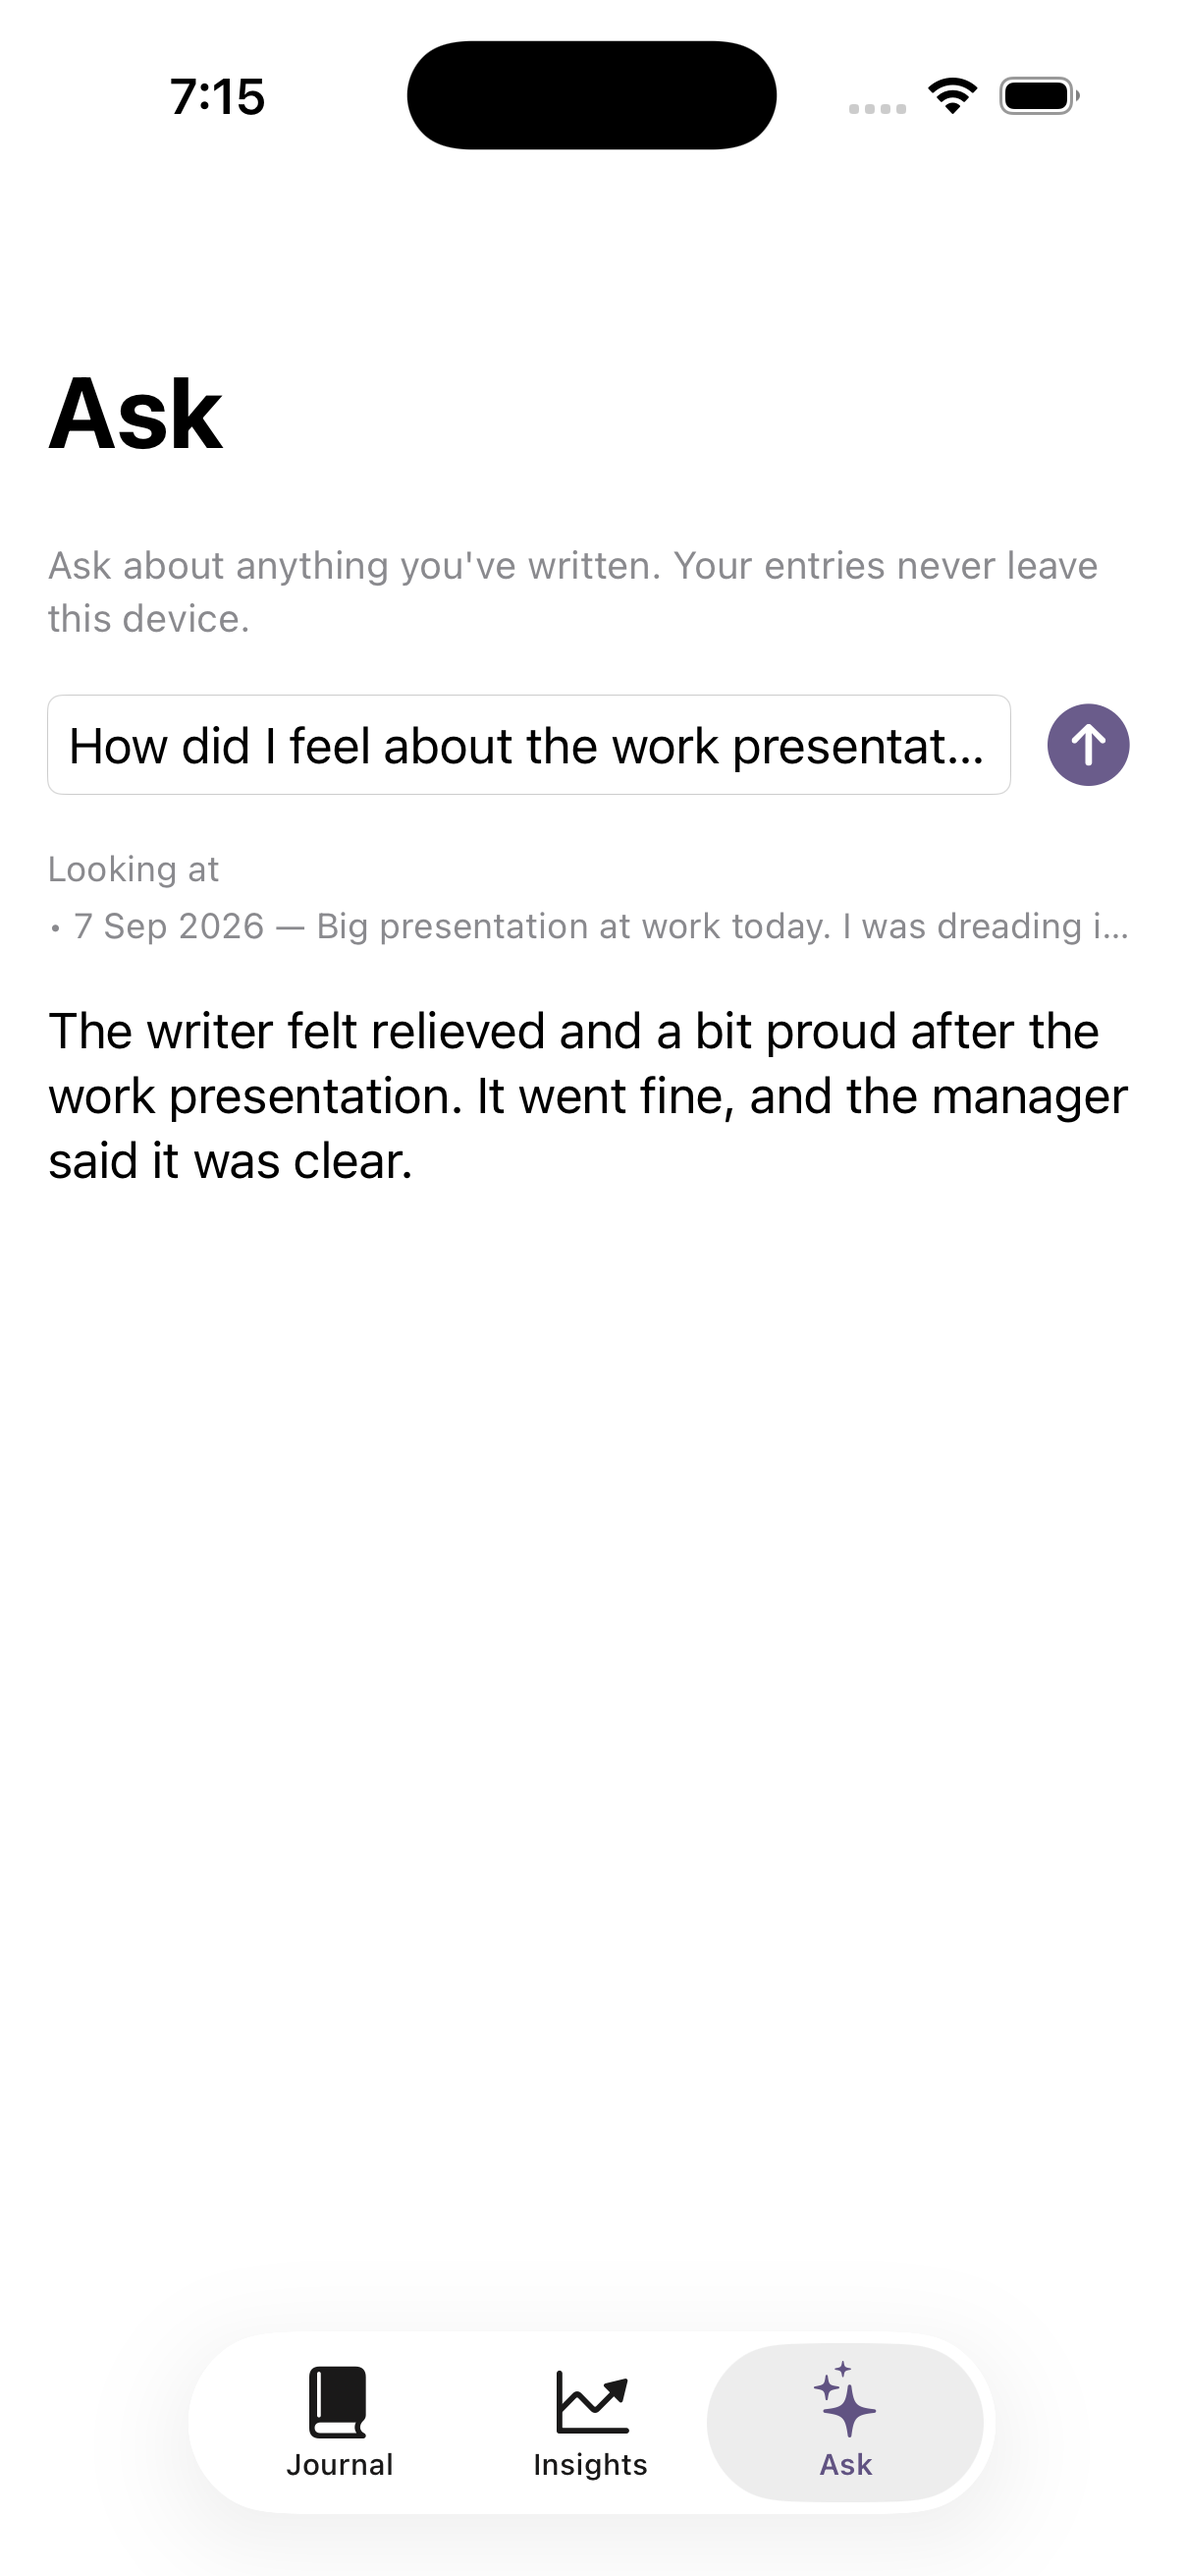
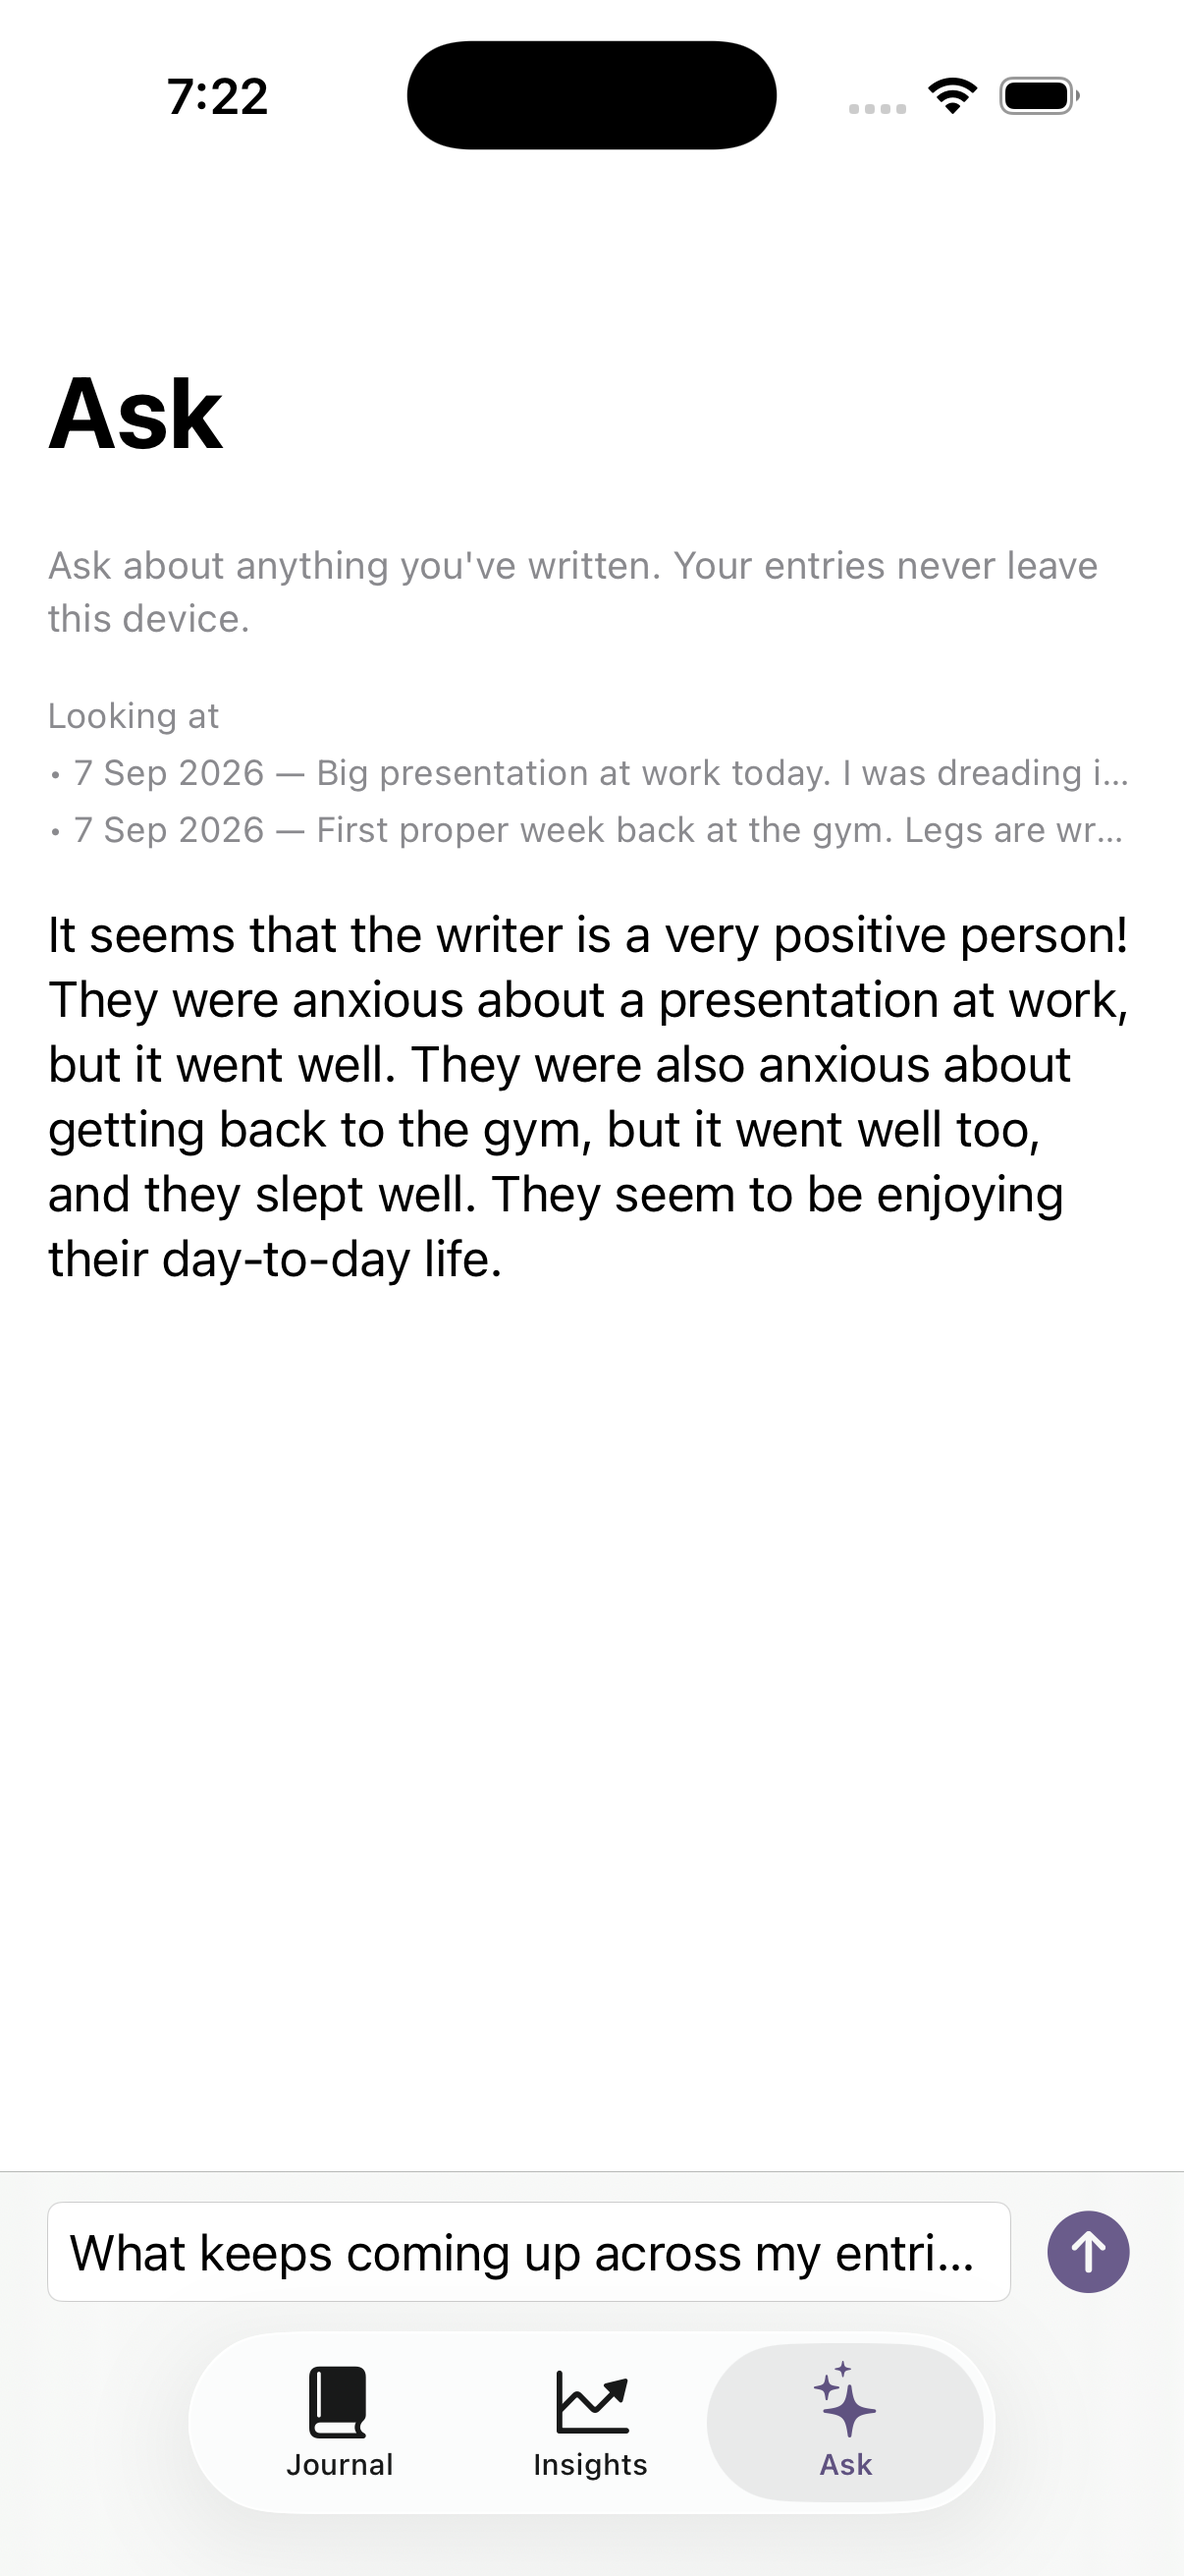
Ask: restore the bottom input bar
The input belongs at the bottom for a chat-style screen. It was moved to
the top only to dodge a focus bug in the .safeAreaInset version. Using
VStack { ScrollView; inputBar } instead keeps it pinned to the bottom,
rides above the keyboard, and takes focus correctly. Verified live on
iPhone 17 Pro: field focuses, question sends, retrieval + streamed answer
render.

diff --git a/Reflect/Features/Ask/AskView.swift b/Reflect/Features/Ask/AskView.swift
@@ -14,61 +14,73 @@ struct AskView: View {
 
     var body: some View {
         NavigationStack {
-            ScrollView {
-                VStack(alignment: .leading, spacing: 18) {
-                    Text("Ask about anything you've written. Your entries never leave this device.")
-                        .font(.footnote)
-                        .foregroundStyle(.secondary)
+            VStack(spacing: 0) {
+                ScrollView {
+                    VStack(alignment: .leading, spacing: 18) {
+                        Text("Ask about anything you've written. Your entries never leave this device.")
+                            .font(.footnote)
+                            .foregroundStyle(.secondary)
 
-                    HStack(spacing: 10) {
-                        TextField("What was I worried about last month?", text: $question)
-                            .textFieldStyle(.roundedBorder)
-                            .focused($fieldFocused)
-                            .submitLabel(.send)
-                            .disabled(!intelligence.availability.isReady)
-                            .onSubmit { Task { await ask() } }
-
-                        Button {
-                            Task { await ask() }
-                        } label: {
-                            Image(systemName: "arrow.up.circle.fill").font(.title)
+                        if let reason = intelligence.availability.reason {
+                            IntelligenceNotice(reason: reason)
                         }
-                        .disabled(!canAsk)
-                        .accessibilityLabel("Ask")
-                    }
 
-                    if let reason = intelligence.availability.reason {
-                        IntelligenceNotice(reason: reason)
-                    }
-
-                    if !usedEntries.isEmpty {
-                        VStack(alignment: .leading, spacing: 5) {
-                            Text("Looking at").font(.caption).foregroundStyle(.secondary)
-                            ForEach(usedEntries) { entry in
-                                Text("• \(entry.createdAt.formatted(date: .abbreviated, time: .omitted)) — \(entry.title)")
-                                    .font(.caption)
-                                    .foregroundStyle(.secondary)
-                                    .lineLimit(1)
+                        if !usedEntries.isEmpty {
+                            VStack(alignment: .leading, spacing: 5) {
+                                Text("Looking at").font(.caption).foregroundStyle(.secondary)
+                                ForEach(usedEntries) { entry in
+                                    Text("• \(entry.createdAt.formatted(date: .abbreviated, time: .omitted)) — \(entry.title)")
+                                        .font(.caption)
+                                        .foregroundStyle(.secondary)
+                                        .lineLimit(1)
+                                }
                             }
                         }
-                    }
 
-                    if isStreaming && answer.isEmpty {
-                        ProgressView().padding(.top, 4)
+                        if isStreaming && answer.isEmpty {
+                            ProgressView().padding(.top, 4)
+                        }
+                        if !answer.isEmpty {
+                            Text(answer).textSelection(.enabled)
+                        }
+                        if let errorMessage {
+                            Text(errorMessage).font(.footnote).foregroundStyle(.red)
+                        }
                     }
-                    if !answer.isEmpty {
-                        Text(answer).textSelection(.enabled)
-                    }
-                    if let errorMessage {
-                        Text(errorMessage).font(.footnote).foregroundStyle(.red)
-                    }
+                    .frame(maxWidth: .infinity, alignment: .leading)
+                    .padding()
                 }
-                .frame(maxWidth: .infinity, alignment: .leading)
-                .padding()
+                .scrollDismissesKeyboard(.interactively)
+
+                inputBar
             }
             .navigationTitle("Ask")
-            .scrollDismissesKeyboard(.interactively)
         }
+    }
+
+    private var inputBar: some View {
+        VStack(spacing: 0) {
+            Divider()
+            HStack(spacing: 10) {
+                TextField("What was I worried about last month?", text: $question)
+                    .textFieldStyle(.roundedBorder)
+                    .focused($fieldFocused)
+                    .submitLabel(.send)
+                    .disabled(!intelligence.availability.isReady)
+                    .onSubmit { Task { await ask() } }
+
+                Button {
+                    Task { await ask() }
+                } label: {
+                    Image(systemName: "arrow.up.circle.fill").font(.title)
+                }
+                .disabled(!canAsk)
+                .accessibilityLabel("Ask")
+            }
+            .padding(.horizontal)
+            .padding(.vertical, 10)
+        }
+        .background(.bar)
     }
 
     private var canAsk: Bool {
